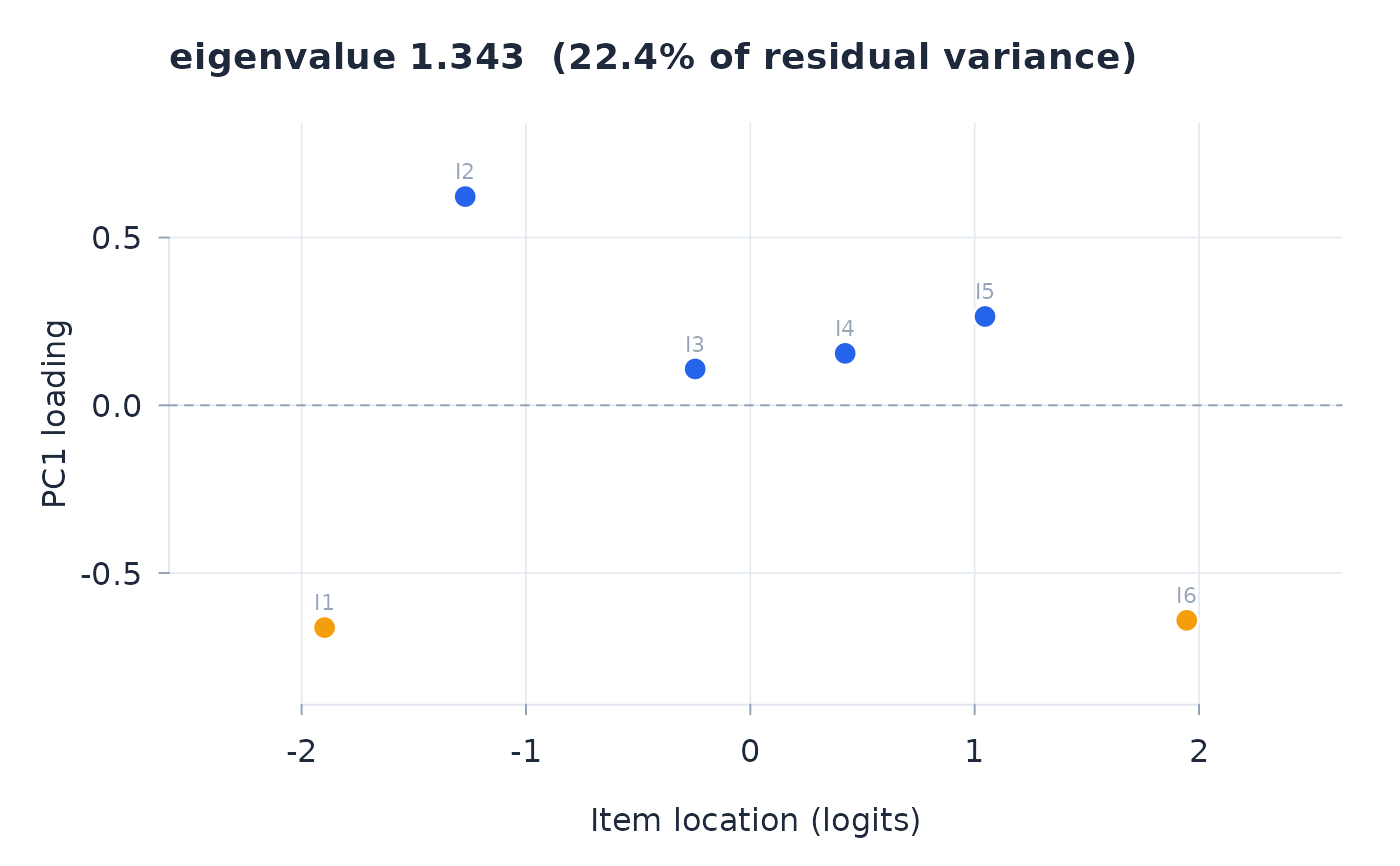
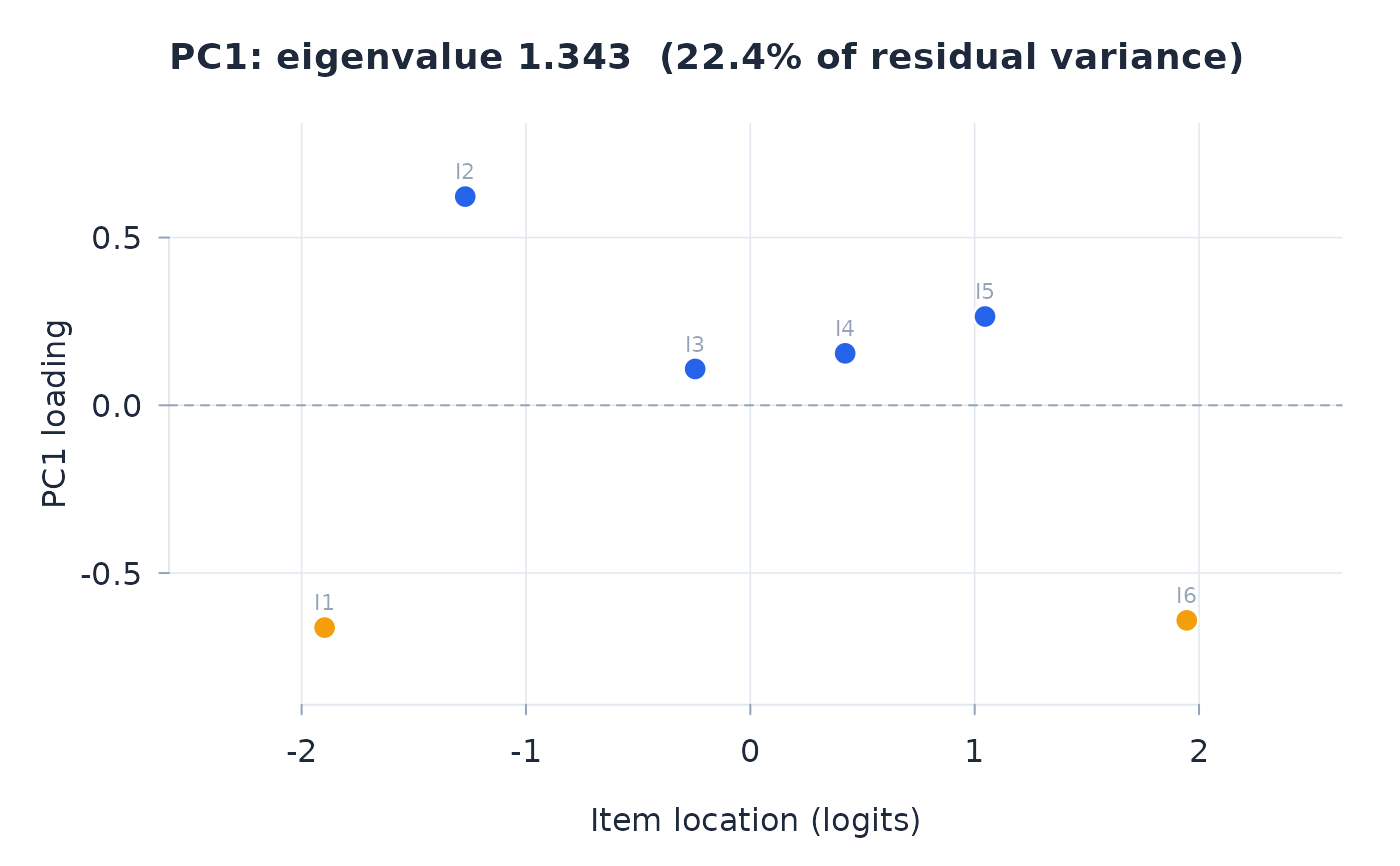
Deploying to gh-pages from @ drjoshmcgrane/rmt@e4a81722cc410d7f3d561d6a68f8b88734f05a34 🚀

Changed region(s): [[0.1229, 0.0312, 0.8907, 0.0935]]

diff --git a/reference/plot_resid_cor.html b/reference/plot_resid_cor.html
@@ -1,5 +1,19 @@
 <!DOCTYPE html>
-<!-- Generated by pkgdown: do not edit by hand --><html lang="en"><head><meta http-equiv="Content-Type" content="text/html; charset=UTF-8"><meta charset="utf-8"><meta http-equiv="X-UA-Compatible" content="IE=edge"><meta name="viewport" content="width=device-width, initial-scale=1, shrink-to-fit=no"><title>Plot the residual-correlation heatmap — plot_resid_cor • rmt</title><script src="../deps/jquery-3.6.0/jquery-3.6.0.min.js"></script><meta name="viewport" content="width=device-width, initial-scale=1, shrink-to-fit=no"><link href="../deps/bootstrap-5.3.8/bootstrap.min.css" rel="stylesheet"><script src="../deps/bootstrap-5.3.8/bootstrap.bundle.min.js"></script><link href="../deps/font-awesome-6.5.2/css/all.min.css" rel="stylesheet"><link href="../deps/font-awesome-6.5.2/css/v4-shims.min.css" rel="stylesheet"><script src="../deps/headroom-0.11.0/headroom.min.js"></script><script src="../deps/headroom-0.11.0/jQuery.headroom.min.js"></script><script src="../deps/bootstrap-toc-1.0.1/bootstrap-toc.min.js"></script><script src="../deps/clipboard.js-2.0.11/clipboard.min.js"></script><script src="../deps/search-1.0.0/autocomplete.jquery.min.js"></script><script src="../deps/search-1.0.0/fuse.min.js"></script><script src="../deps/search-1.0.0/mark.min.js"></script><!-- pkgdown --><script src="../pkgdown.js"></script><meta property="og:title" content="Plot the residual-correlation heatmap — plot_resid_cor"><meta name="description" content="Plot the residual-correlation heatmap"><meta property="og:description" content="Plot the residual-correlation heatmap"></head><body>
+<!-- Generated by pkgdown: do not edit by hand --><html lang="en"><head><meta http-equiv="Content-Type" content="text/html; charset=UTF-8"><meta charset="utf-8"><meta http-equiv="X-UA-Compatible" content="IE=edge"><meta name="viewport" content="width=device-width, initial-scale=1, shrink-to-fit=no"><title>Plot the residual-correlation heatmap — plot_resid_cor • rmt</title><script src="../deps/jquery-3.6.0/jquery-3.6.0.min.js"></script><meta name="viewport" content="width=device-width, initial-scale=1, shrink-to-fit=no"><link href="../deps/bootstrap-5.3.8/bootstrap.min.css" rel="stylesheet"><script src="../deps/bootstrap-5.3.8/bootstrap.bundle.min.js"></script><link href="../deps/font-awesome-6.5.2/css/all.min.css" rel="stylesheet"><link href="../deps/font-awesome-6.5.2/css/v4-shims.min.css" rel="stylesheet"><script src="../deps/headroom-0.11.0/headroom.min.js"></script><script src="../deps/headroom-0.11.0/jQuery.headroom.min.js"></script><script src="../deps/bootstrap-toc-1.0.1/bootstrap-toc.min.js"></script><script src="../deps/clipboard.js-2.0.11/clipboard.min.js"></script><script src="../deps/search-1.0.0/autocomplete.jquery.min.js"></script><script src="../deps/search-1.0.0/fuse.min.js"></script><script src="../deps/search-1.0.0/mark.min.js"></script><!-- pkgdown --><script src="../pkgdown.js"></script><meta property="og:title" content="Plot the residual-correlation heatmap — plot_resid_cor"><meta name="description" content="Cells are coloured by Q3* – each pair's residual correlation minus the
+average off-diagonal correlation – so white marks the value expected
+under local independence and warm colour marks dependence. The scale
+saturates at a Q3* of cap rather than the +/-1 of an ordinary
+correlation: a residual correlation seldom reaches even 0.5 under a
+fitting model, and the conventional flag (Q3* above 0.2; Christensen,
+Makransky and Horton 2017, marked on the key) sits well within the
+range, so the colour is spent where the values actually discriminate."><meta property="og:description" content="Cells are coloured by Q3* – each pair's residual correlation minus the
+average off-diagonal correlation – so white marks the value expected
+under local independence and warm colour marks dependence. The scale
+saturates at a Q3* of cap rather than the +/-1 of an ordinary
+correlation: a residual correlation seldom reaches even 0.5 under a
+fitting model, and the conventional flag (Q3* above 0.2; Christensen,
+Makransky and Horton 2017, marked on the key) sits well within the
+range, so the colour is spent where the values actually discriminate."></head><body>
     <a href="#main" class="visually-hidden-focusable">Skip to contents</a>
 
 
@@ -7,7 +21,7 @@
 
     <a class="navbar-brand me-2" href="../index.html">rmt</a>
 
-    <small class="nav-text text-muted me-auto" data-bs-toggle="tooltip" data-bs-placement="bottom" title="">1.1.2</small>
+    <small class="nav-text text-muted me-auto" data-bs-toggle="tooltip" data-bs-placement="bottom" title="">1.1.3</small>
 
 
     <button class="navbar-toggler" type="button" data-bs-toggle="collapse" data-bs-target="#navbar" aria-controls="navbar" aria-expanded="false" aria-label="Toggle navigation">
@@ -34,12 +48,19 @@
     </div>
 
     <div class="ref-description section level2">
-    <p>Plot the residual-correlation heatmap</p>
+    <p>Cells are coloured by Q3* – each pair's residual correlation minus the
+average off-diagonal correlation – so white marks the value expected
+under local independence and warm colour marks dependence. The scale
+saturates at a Q3* of <code>cap</code> rather than the +/-1 of an ordinary
+correlation: a residual correlation seldom reaches even 0.5 under a
+fitting model, and the conventional flag (Q3* above 0.2; Christensen,
+Makransky and Horton 2017, marked on the key) sits well within the
+range, so the colour is spent where the values actually discriminate.</p>
     </div>
 
     <div class="section level2">
     <h2 id="ref-usage">Usage<a class="anchor" aria-label="anchor" href="#ref-usage"></a></h2>
-    <div class="sourceCode"><pre class="sourceCode r"><code><span><span class="fu">plot_resid_cor</span><span class="op">(</span><span class="va">fit</span><span class="op">)</span></span></code></pre></div>
+    <div class="sourceCode"><pre class="sourceCode r"><code><span><span class="fu">plot_resid_cor</span><span class="op">(</span><span class="va">fit</span>, cap <span class="op">=</span> <span class="fl">0.5</span>, flag <span class="op">=</span> <span class="fl">0.2</span><span class="op">)</span></span></code></pre></div>
     </div>
 
     <div class="section level2">
@@ -48,6 +69,15 @@
 
 <dl><dt id="arg-fit">fit<a class="anchor" aria-label="anchor" href="#arg-fit"></a></dt>
 <dd><p>A fitted object from <code><a href="rasch.html">rasch</a></code>.</p></dd>
+
+
+<dt id="arg-cap">cap<a class="anchor" aria-label="anchor" href="#arg-cap"></a></dt>
+<dd><p>Q3* value at which the colour saturates (default 0.5).</p></dd>
+
+
+<dt id="arg-flag">flag<a class="anchor" aria-label="anchor" href="#arg-flag"></a></dt>
+<dd><p>Q3* value marked on the key as the dependence flag
+(default 0.2).</p></dd>
 
 </dl></div>
     <div class="section level2">

diff --git a/reference/dimensionality_test.html b/reference/dimensionality_test.html
@@ -1,8 +1,9 @@
 <!DOCTYPE html>
 <!-- Generated by pkgdown: do not edit by hand --><html lang="en"><head><meta http-equiv="Content-Type" content="text/html; charset=UTF-8"><meta charset="utf-8"><meta http-equiv="X-UA-Compatible" content="IE=edge"><meta name="viewport" content="width=device-width, initial-scale=1, shrink-to-fit=no"><title>Residual-component test of unidimensionality — dimensionality_test • rmt</title><script src="../deps/jquery-3.6.0/jquery-3.6.0.min.js"></script><meta name="viewport" content="width=device-width, initial-scale=1, shrink-to-fit=no"><link href="../deps/bootstrap-5.3.8/bootstrap.min.css" rel="stylesheet"><script src="../deps/bootstrap-5.3.8/bootstrap.bundle.min.js"></script><link href="../deps/font-awesome-6.5.2/css/all.min.css" rel="stylesheet"><link href="../deps/font-awesome-6.5.2/css/v4-shims.min.css" rel="stylesheet"><script src="../deps/headroom-0.11.0/headroom.min.js"></script><script src="../deps/headroom-0.11.0/jQuery.headroom.min.js"></script><script src="../deps/bootstrap-toc-1.0.1/bootstrap-toc.min.js"></script><script src="../deps/clipboard.js-2.0.11/clipboard.min.js"></script><script src="../deps/search-1.0.0/autocomplete.jquery.min.js"></script><script src="../deps/search-1.0.0/fuse.min.js"></script><script src="../deps/search-1.0.0/mark.min.js"></script><!-- pkgdown --><script src="../pkgdown.js"></script><meta property="og:title" content="Residual-component test of unidimensionality — dimensionality_test"><meta name="description" content="Estimates each person separately on two item subsets and compares the two
 estimates with a per-person t-test (Smith 2002). By default the subsets
-are defined by the sign of the first residual-contrast loading; they can
-also be nominated manually (for example, by content). Under
+are defined by the sign of a residual-contrast loading (the first by
+default; any leading component may be chosen); they can also be nominated
+manually (for example, by content). Under
 unidimensionality and local independence the two subset estimates are
 independent given the person location, so
 t = (theta_A - theta_B) / sqrt(se_A^2 + se_B^2) is approximately
@@ -13,8 +14,9 @@ proportion of significant tests is reported with an exact
 (Clopper-Pearson) binomial confidence interval; a lower bound above
 alpha signals multidimensionality."><meta property="og:description" content="Estimates each person separately on two item subsets and compares the two
 estimates with a per-person t-test (Smith 2002). By default the subsets
-are defined by the sign of the first residual-contrast loading; they can
-also be nominated manually (for example, by content). Under
+are defined by the sign of a residual-contrast loading (the first by
+default; any leading component may be chosen); they can also be nominated
+manually (for example, by content). Under
 unidimensionality and local independence the two subset estimates are
 independent given the person location, so
 t = (theta_A - theta_B) / sqrt(se_A^2 + se_B^2) is approximately
@@ -31,7 +33,7 @@ alpha signals multidimensionality."></head><body>
 
     <a class="navbar-brand me-2" href="../index.html">rmt</a>
 
-    <small class="nav-text text-muted me-auto" data-bs-toggle="tooltip" data-bs-placement="bottom" title="">1.1.2</small>
+    <small class="nav-text text-muted me-auto" data-bs-toggle="tooltip" data-bs-placement="bottom" title="">1.1.3</small>
 
 
     <button class="navbar-toggler" type="button" data-bs-toggle="collapse" data-bs-target="#navbar" aria-controls="navbar" aria-expanded="false" aria-label="Toggle navigation">
@@ -60,8 +62,9 @@ alpha signals multidimensionality."></head><body>
     <div class="ref-description section level2">
     <p>Estimates each person separately on two item subsets and compares the two
 estimates with a per-person t-test (Smith 2002). By default the subsets
-are defined by the sign of the first residual-contrast loading; they can
-also be nominated manually (for example, by content). Under
+are defined by the sign of a residual-contrast loading (the first by
+default; any leading component may be chosen); they can also be nominated
+manually (for example, by content). Under
 unidimensionality and local independence the two subset estimates are
 independent given the person location, so
 <code>t = (theta_A - theta_B) / sqrt(se_A^2 + se_B^2)</code> is approximately
@@ -79,7 +82,8 @@ proportion of significant tests is reported with an exact
 <span>  <span class="va">fit</span>,</span>
 <span>  alpha <span class="op">=</span> <span class="fl">0.05</span>,</span>
 <span>  items_positive <span class="op">=</span> <span class="cn">NULL</span>,</span>
-<span>  items_negative <span class="op">=</span> <span class="cn">NULL</span></span>
+<span>  items_negative <span class="op">=</span> <span class="cn">NULL</span>,</span>
+<span>  component <span class="op">=</span> <span class="fl">1</span></span>
 <span><span class="op">)</span></span></code></pre></div>
     </div>
 
@@ -98,7 +102,13 @@ proportion of significant tests is reported with an exact
 <dt id="arg-items-positive-items-negative">items_positive, items_negative<a class="anchor" aria-label="anchor" href="#arg-items-positive-items-negative"></a></dt>
 <dd><p>Optional character vectors naming the
 two item subsets; both must be given (disjoint, at least two items
-each), otherwise the first residual contrast defines the split.</p></dd>
+each), otherwise the sign of a residual component defines the split.</p></dd>
+
+
+<dt id="arg-component">component<a class="anchor" aria-label="anchor" href="#arg-component"></a></dt>
+<dd><p>Which residual principal component's loading sign defines
+the default split (ignored when subsets are named). Default the first
+contrast.</p></dd>
 
 </dl></div>
     <div class="section level2">

diff --git a/reference/plot_pca.html b/reference/plot_pca.html
@@ -1,7 +1,9 @@
 <!DOCTYPE html>
-<!-- Generated by pkgdown: do not edit by hand --><html lang="en"><head><meta http-equiv="Content-Type" content="text/html; charset=UTF-8"><meta charset="utf-8"><meta http-equiv="X-UA-Compatible" content="IE=edge"><meta name="viewport" content="width=device-width, initial-scale=1, shrink-to-fit=no"><title>Plot residual principal-component loadings — plot_pca • rmt</title><script src="../deps/jquery-3.6.0/jquery-3.6.0.min.js"></script><meta name="viewport" content="width=device-width, initial-scale=1, shrink-to-fit=no"><link href="../deps/bootstrap-5.3.8/bootstrap.min.css" rel="stylesheet"><script src="../deps/bootstrap-5.3.8/bootstrap.bundle.min.js"></script><link href="../deps/font-awesome-6.5.2/css/all.min.css" rel="stylesheet"><link href="../deps/font-awesome-6.5.2/css/v4-shims.min.css" rel="stylesheet"><script src="../deps/headroom-0.11.0/headroom.min.js"></script><script src="../deps/headroom-0.11.0/jQuery.headroom.min.js"></script><script src="../deps/bootstrap-toc-1.0.1/bootstrap-toc.min.js"></script><script src="../deps/clipboard.js-2.0.11/clipboard.min.js"></script><script src="../deps/search-1.0.0/autocomplete.jquery.min.js"></script><script src="../deps/search-1.0.0/fuse.min.js"></script><script src="../deps/search-1.0.0/mark.min.js"></script><!-- pkgdown --><script src="../pkgdown.js"></script><meta property="og:title" content="Plot residual principal-component loadings — plot_pca"><meta name="description" content="First-contrast loadings against item location; opposing clusters at top and
-bottom suggest a second dimension."><meta property="og:description" content="First-contrast loadings against item location; opposing clusters at top and
-bottom suggest a second dimension."></head><body>
+<!-- Generated by pkgdown: do not edit by hand --><html lang="en"><head><meta http-equiv="Content-Type" content="text/html; charset=UTF-8"><meta charset="utf-8"><meta http-equiv="X-UA-Compatible" content="IE=edge"><meta name="viewport" content="width=device-width, initial-scale=1, shrink-to-fit=no"><title>Plot residual principal-component loadings — plot_pca • rmt</title><script src="../deps/jquery-3.6.0/jquery-3.6.0.min.js"></script><meta name="viewport" content="width=device-width, initial-scale=1, shrink-to-fit=no"><link href="../deps/bootstrap-5.3.8/bootstrap.min.css" rel="stylesheet"><script src="../deps/bootstrap-5.3.8/bootstrap.bundle.min.js"></script><link href="../deps/font-awesome-6.5.2/css/all.min.css" rel="stylesheet"><link href="../deps/font-awesome-6.5.2/css/v4-shims.min.css" rel="stylesheet"><script src="../deps/headroom-0.11.0/headroom.min.js"></script><script src="../deps/headroom-0.11.0/jQuery.headroom.min.js"></script><script src="../deps/bootstrap-toc-1.0.1/bootstrap-toc.min.js"></script><script src="../deps/clipboard.js-2.0.11/clipboard.min.js"></script><script src="../deps/search-1.0.0/autocomplete.jquery.min.js"></script><script src="../deps/search-1.0.0/fuse.min.js"></script><script src="../deps/search-1.0.0/mark.min.js"></script><!-- pkgdown --><script src="../pkgdown.js"></script><meta property="og:title" content="Plot residual principal-component loadings — plot_pca"><meta name="description" content="Residual-component loadings against item location; opposing clusters at top
+and bottom suggest a further dimension. Any leading component may be shown,
+not only the first contrast."><meta property="og:description" content="Residual-component loadings against item location; opposing clusters at top
+and bottom suggest a further dimension. Any leading component may be shown,
+not only the first contrast."></head><body>
     <a href="#main" class="visually-hidden-focusable">Skip to contents</a>
 
 
@@ -9,7 +11,7 @@ bottom suggest a second dimension."></head><body>
 
     <a class="navbar-brand me-2" href="../index.html">rmt</a>
 
-    <small class="nav-text text-muted me-auto" data-bs-toggle="tooltip" data-bs-placement="bottom" title="">1.1.2</small>
+    <small class="nav-text text-muted me-auto" data-bs-toggle="tooltip" data-bs-placement="bottom" title="">1.1.3</small>
 
 
     <button class="navbar-toggler" type="button" data-bs-toggle="collapse" data-bs-target="#navbar" aria-controls="navbar" aria-expanded="false" aria-label="Toggle navigation">
@@ -36,13 +38,14 @@ bottom suggest a second dimension."></head><body>
     </div>
 
     <div class="ref-description section level2">
-    <p>First-contrast loadings against item location; opposing clusters at top and
-bottom suggest a second dimension.</p>
+    <p>Residual-component loadings against item location; opposing clusters at top
+and bottom suggest a further dimension. Any leading component may be shown,
+not only the first contrast.</p>
     </div>
 
     <div class="section level2">
     <h2 id="ref-usage">Usage<a class="anchor" aria-label="anchor" href="#ref-usage"></a></h2>
-    <div class="sourceCode"><pre class="sourceCode r"><code><span><span class="fu">plot_pca</span><span class="op">(</span><span class="va">fit</span><span class="op">)</span></span></code></pre></div>
+    <div class="sourceCode"><pre class="sourceCode r"><code><span><span class="fu">plot_pca</span><span class="op">(</span><span class="va">fit</span>, component <span class="op">=</span> <span class="fl">1</span><span class="op">)</span></span></code></pre></div>
     </div>
 
     <div class="section level2">
@@ -51,6 +54,11 @@ bottom suggest a second dimension.</p>
 
 <dl><dt id="arg-fit">fit<a class="anchor" aria-label="anchor" href="#arg-fit"></a></dt>
 <dd><p>A fitted object from <code><a href="rasch.html">rasch</a></code>.</p></dd>
+
+
+<dt id="arg-component">component<a class="anchor" aria-label="anchor" href="#arg-component"></a></dt>
+<dd><p>Which residual principal component to plot (default the
+first contrast).</p></dd>
 
 </dl></div>
     <div class="section level2">

diff --git a/authors.html b/authors.html
@@ -7,7 +7,7 @@
 
     <a class="navbar-brand me-2" href="index.html">rmt</a>
 
-    <small class="nav-text text-muted me-auto" data-bs-toggle="tooltip" data-bs-placement="bottom" title="">1.1.2</small>
+    <small class="nav-text text-muted me-auto" data-bs-toggle="tooltip" data-bs-placement="bottom" title="">1.1.3</small>
 
 
     <button class="navbar-toggler" type="button" data-bs-toggle="collapse" data-bs-target="#navbar" aria-controls="navbar" aria-expanded="false" aria-label="Toggle navigation">
@@ -46,13 +46,13 @@
 
       <p>McGrane J (2026).
 <em>rmt: Pairwise Conditional Rasch Measurement Analysis and Diagnostics</em>.
-R package version 1.1.2, <a href="https://drjoshmcgrane.github.io/rmt/">https://drjoshmcgrane.github.io/rmt/</a>.
+R package version 1.1.3, <a href="https://drjoshmcgrane.github.io/rmt/">https://drjoshmcgrane.github.io/rmt/</a>.
 </p>
       <pre>@Manual{,
   title = {rmt: Pairwise Conditional Rasch Measurement Analysis and Diagnostics},
   author = {Josh McGrane},
   year = {2026},
-  note = {R package version 1.1.2},
+  note = {R package version 1.1.3},
   url = {https://drjoshmcgrane.github.io/rmt/},
 }</pre>
     </div>

diff --git a/404.html b/404.html
@@ -20,7 +20,7 @@
 
     <a class="navbar-brand me-2" href="https://drjoshmcgrane.github.io/rmt/index.html">rmt</a>
 
-    <small class="nav-text text-muted me-auto" data-bs-toggle="tooltip" data-bs-placement="bottom" title="">1.1.2</small>
+    <small class="nav-text text-muted me-auto" data-bs-toggle="tooltip" data-bs-placement="bottom" title="">1.1.3</small>
 
 
     <button class="navbar-toggler" type="button" data-bs-toggle="collapse" data-bs-target="#navbar" aria-controls="navbar" aria-expanded="false" aria-label="Toggle navigation">

diff --git a/LICENSE-text.html b/LICENSE-text.html
@@ -7,7 +7,7 @@
 
     <a class="navbar-brand me-2" href="index.html">rmt</a>
 
-    <small class="nav-text text-muted me-auto" data-bs-toggle="tooltip" data-bs-placement="bottom" title="">1.1.2</small>
+    <small class="nav-text text-muted me-auto" data-bs-toggle="tooltip" data-bs-placement="bottom" title="">1.1.3</small>
 
 
     <button class="navbar-toggler" type="button" data-bs-toggle="collapse" data-bs-target="#navbar" aria-controls="navbar" aria-expanded="false" aria-label="Toggle navigation">

diff --git a/index.html b/index.html
@@ -22,7 +22,7 @@
 
     <a class="navbar-brand me-2" href="index.html">rmt</a>
 
-    <small class="nav-text text-muted me-auto" data-bs-toggle="tooltip" data-bs-placement="bottom" title="">1.1.2</small>
+    <small class="nav-text text-muted me-auto" data-bs-toggle="tooltip" data-bs-placement="bottom" title="">1.1.3</small>
 
 
     <button class="navbar-toggler" type="button" data-bs-toggle="collapse" data-bs-target="#navbar" aria-controls="navbar" aria-expanded="false" aria-label="Toggle navigation">

diff --git a/news/index.html b/news/index.html
@@ -7,7 +7,7 @@
 
     <a class="navbar-brand me-2" href="../index.html">rmt</a>
 
-    <small class="nav-text text-muted me-auto" data-bs-toggle="tooltip" data-bs-placement="bottom" title="">1.1.2</small>
+    <small class="nav-text text-muted me-auto" data-bs-toggle="tooltip" data-bs-placement="bottom" title="">1.1.3</small>
 
 
     <button class="navbar-toggler" type="button" data-bs-toggle="collapse" data-bs-target="#navbar" aria-controls="navbar" aria-expanded="false" aria-label="Toggle navigation">

diff --git a/reference/btl.html b/reference/btl.html
@@ -31,7 +31,7 @@ graph must remain connected."></head><body>
 
     <a class="navbar-brand me-2" href="../index.html">rmt</a>
 
-    <small class="nav-text text-muted me-auto" data-bs-toggle="tooltip" data-bs-placement="bottom" title="">1.1.2</small>
+    <small class="nav-text text-muted me-auto" data-bs-toggle="tooltip" data-bs-placement="bottom" title="">1.1.3</small>
 
 
     <button class="navbar-toggler" type="button" data-bs-toggle="collapse" data-bs-target="#navbar" aria-controls="navbar" aria-expanded="false" aria-label="Toggle navigation">

diff --git a/reference/btl_dif.html b/reference/btl_dif.html
@@ -25,7 +25,7 @@ mirroring dif_size."></head><body>
 
     <a class="navbar-brand me-2" href="../index.html">rmt</a>
 
-    <small class="nav-text text-muted me-auto" data-bs-toggle="tooltip" data-bs-placement="bottom" title="">1.1.2</small>
+    <small class="nav-text text-muted me-auto" data-bs-toggle="tooltip" data-bs-placement="bottom" title="">1.1.3</small>
 
 
     <button class="navbar-toggler" type="button" data-bs-toggle="collapse" data-bs-target="#navbar" aria-controls="navbar" aria-expanded="false" aria-label="Toggle navigation">

diff --git a/reference/chisq_detail.html b/reference/chisq_detail.html
@@ -25,7 +25,7 @@ those scoring k - 1 or k."></head><body>
 
     <a class="navbar-brand me-2" href="../index.html">rmt</a>
 
-    <small class="nav-text text-muted me-auto" data-bs-toggle="tooltip" data-bs-placement="bottom" title="">1.1.2</small>
+    <small class="nav-text text-muted me-auto" data-bs-toggle="tooltip" data-bs-placement="bottom" title="">1.1.3</small>
 
 
     <button class="navbar-toggler" type="button" data-bs-toggle="collapse" data-bs-target="#navbar" aria-controls="navbar" aria-expanded="false" aria-label="Toggle navigation">

diff --git a/reference/combine_items.html b/reference/combine_items.html
@@ -13,7 +13,7 @@ treatment for item pairs flagged by residual_correlations."></head><body>
 
     <a class="navbar-brand me-2" href="../index.html">rmt</a>
 
-    <small class="nav-text text-muted me-auto" data-bs-toggle="tooltip" data-bs-placement="bottom" title="">1.1.2</small>
+    <small class="nav-text text-muted me-auto" data-bs-toggle="tooltip" data-bs-placement="bottom" title="">1.1.3</small>
 
 
     <button class="navbar-toggler" type="button" data-bs-toggle="collapse" data-bs-target="#navbar" aria-controls="navbar" aria-expanded="false" aria-label="Toggle navigation">